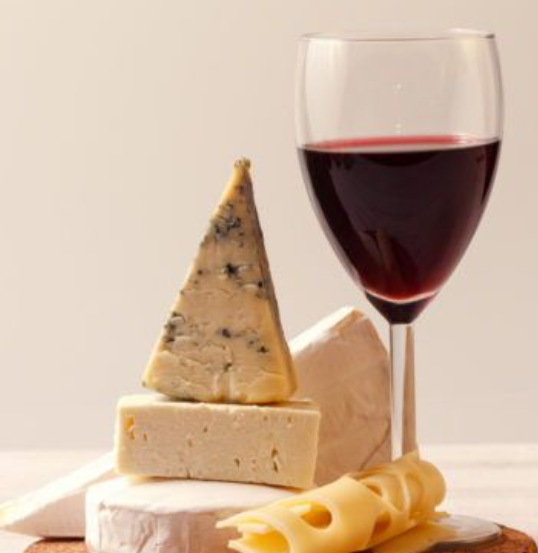
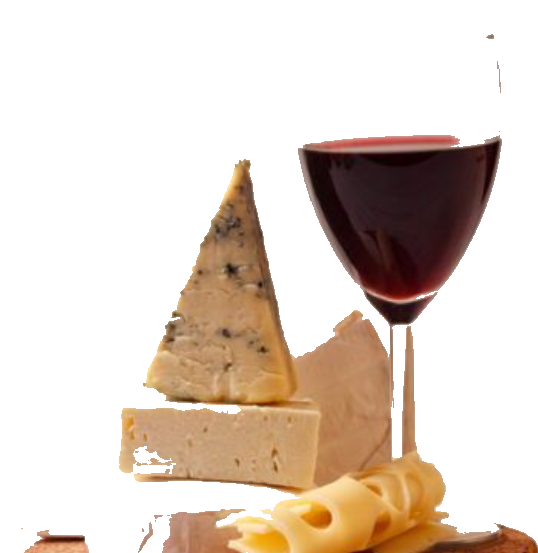
Clean collage image edges

diff --git a/src/App.css b/src/App.css
@@ -101,6 +101,8 @@
   width: 23%;
   margin-top: 4.2%;
   transform: rotate(-7deg);
+  -webkit-mask-image: radial-gradient(ellipse 82% 90% at 52% 50%, #000 72%, rgba(0, 0, 0, .78) 84%, transparent 100%);
+  mask-image: radial-gradient(ellipse 82% 90% at 52% 50%, #000 72%, rgba(0, 0, 0, .78) 84%, transparent 100%);
 }
 .known-cheese-mac {
   width: 20%;
@@ -116,6 +118,8 @@
   width: 22%;
   margin-top: 1.8%;
   transform: rotate(7deg);
+  -webkit-mask-image: radial-gradient(ellipse 82% 92% at 47% 49%, #000 74%, rgba(0, 0, 0, .78) 86%, transparent 100%);
+  mask-image: radial-gradient(ellipse 82% 92% at 47% 49%, #000 74%, rgba(0, 0, 0, .78) 86%, transparent 100%);
 }
 
 /* Use one continuous cover-paper background across the whole story. */